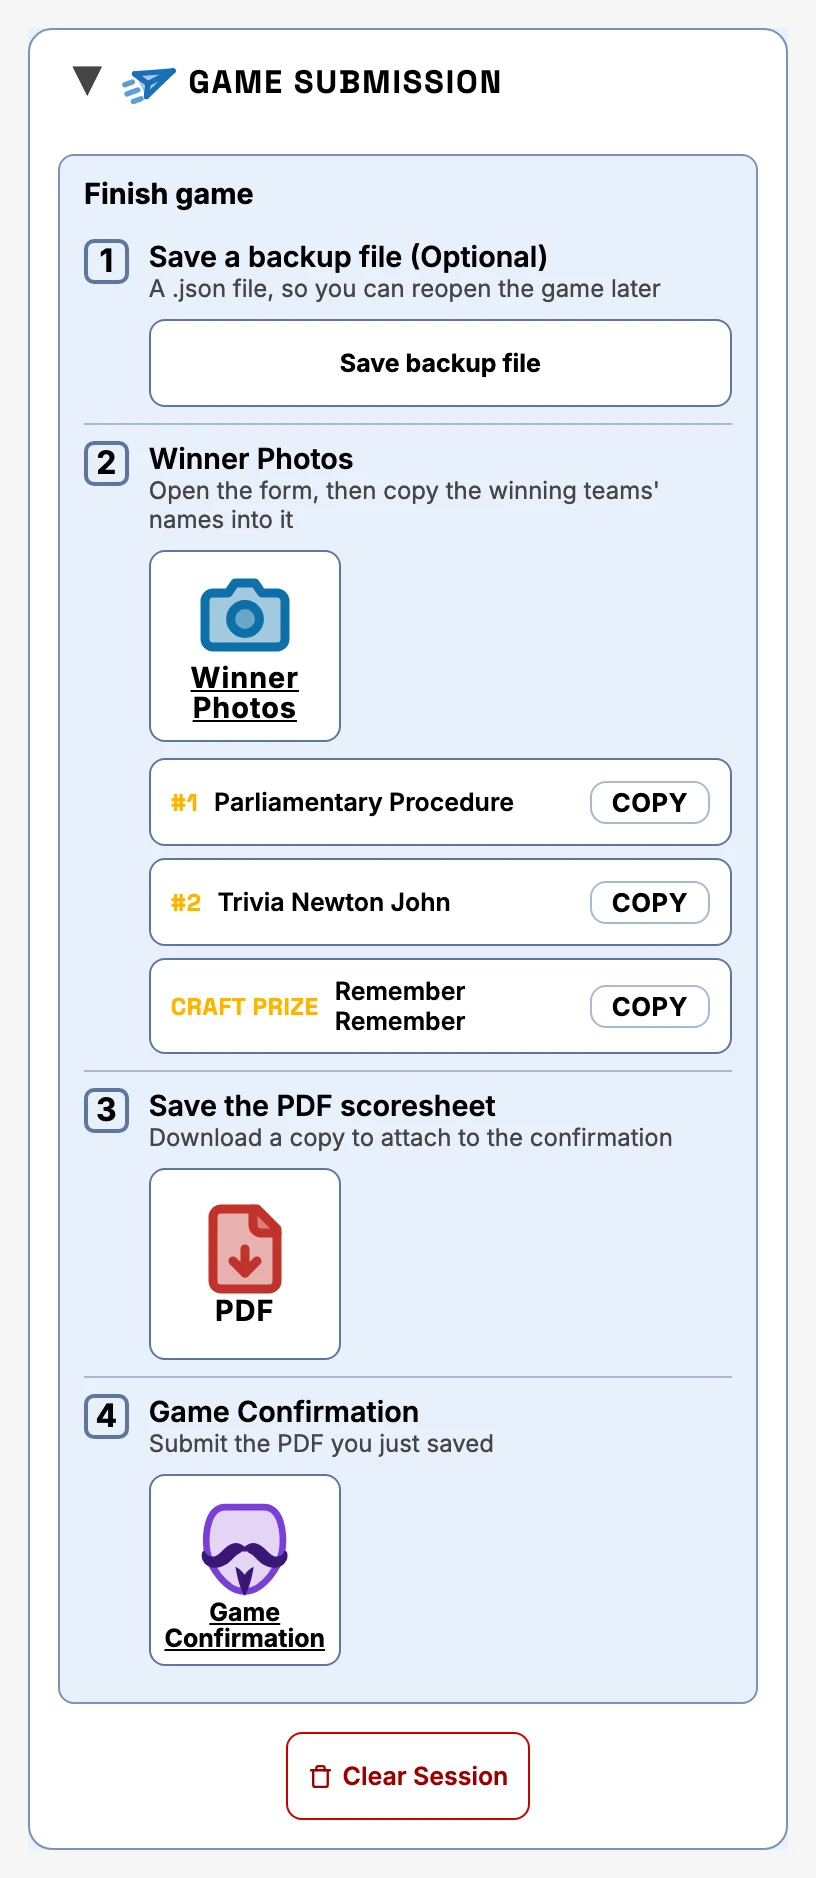
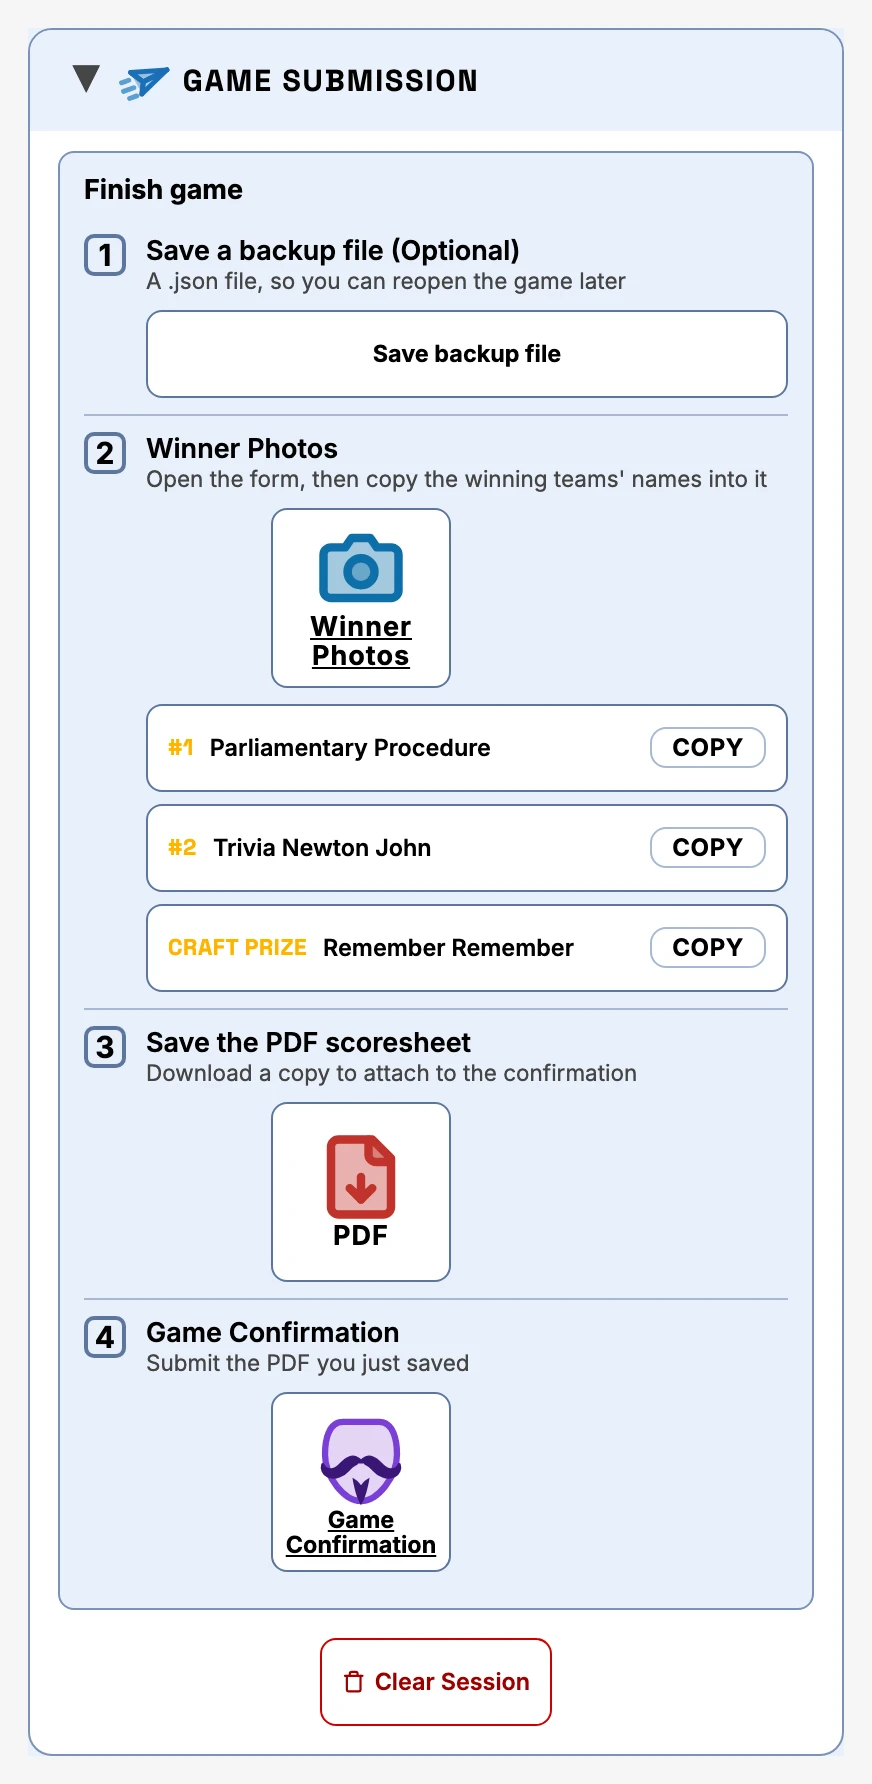
v22.61 follow-up: FAQ v1.68 regenerated export-bar screenshots with centered Winner Photos and PDF buttons

Changed region(s): [[0.0306, 0.0308, 0.9804, 0.9865], [0.0919, 0.0308, 0.6127, 0.0617]]

diff --git a/faq/index.html b/faq/index.html
@@ -1324,7 +1324,7 @@
         <div class="faq-shot">
           <img
             loading="lazy"
-            width="816" height="1878" decoding="async"
+            width="872" height="1784" decoding="async"
             src="screenshots/export-bar.webp"
             data-shot-base="export-bar"
             alt="Game Submission section as one numbered list: Save a backup file (Optional), Winner Photos with Copy buttons for the top teams and the craft prize winner under it, Download PDF, and Game Confirmation"

diff --git a/faq/js/faq.js b/faq/js/faq.js
@@ -4,7 +4,7 @@
 // #versionLabel element. Here the same string feeds two spots — the page footer and the
 // Settings panel's settings-meta row — so bumping a release only means editing these two
 // constants instead of hunting down every place the version text is written out by hand.
-const FAQ_VERSION = "v1.67";
+const FAQ_VERSION = "v1.68";
 const FAQ_VERSION_DATE = "21 Nov 2026";
 
 // Same Lucide sun/moon geometry as the main app's THEME_ICON_SUN/MOON (js/app.js), tagged

diff --git a/faq/CHANGELOG.md b/faq/CHANGELOG.md
@@ -2,6 +2,11 @@
 
 All notable changes to the Scorekeeper FAQ site are documented here.
 
+## [1.68] - 21 Nov 2026
+
+### Changed
+- **Game Submission screenshot** (`export-bar`, dark + light) regenerated for app v22.61: Winner Photos and PDF are centered in their steps.
+
 ## [1.67] - 21 Nov 2026
 
 ### Changed
